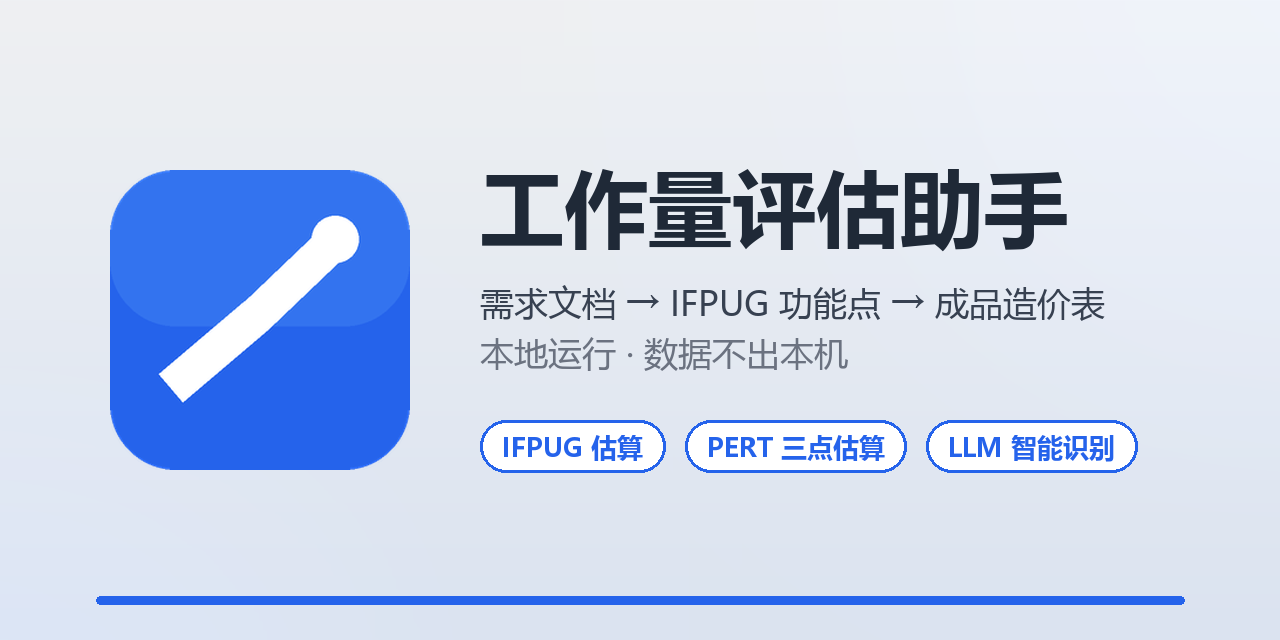
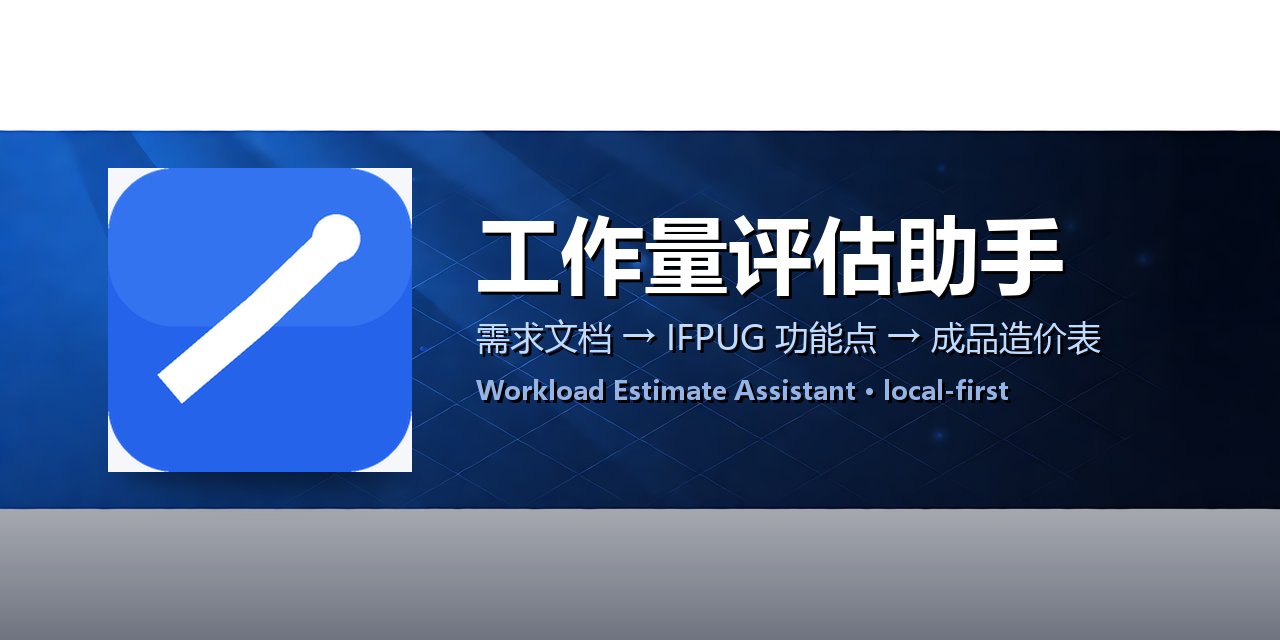
T01823+T01831 GitHub 门面：README 徽章/hero/测试段 + AI 背景社交预览图
- README：补 hero 预览图与静态徽章（平台/Python/Electron/测试/i18n）、
  特性补估算历史版本对比/多语言三主题/可访问性（均仓库真实事实）、新增测试段
- assets/github-social-preview.png：agnes-image-2.5-flash 生成深蓝科技背景（无文字），
  PIL 精确合成 1280×640 + we_icon 真实 logo + YaHei 文字（≤2 行），尺寸精确不变形

diff --git a/README.md b/README.md
@@ -2,6 +2,10 @@
 
 > 需求文档 → IFPUG 功能点 → 成品造价表（引擎直连）
 
+![social preview](assets/github-social-preview.png)
+
+![platform](https://img.shields.io/badge/platform-Windows%2010%2B-2563EB) ![python](https://img.shields.io/badge/python-3.10%2B-3776AB) ![electron](https://img.shields.io/badge/electron-desktop-47848F) ![tests](https://img.shields.io/badge/npm%20test-12%2F12%20passing-16A34A) ![i18n](https://img.shields.io/badge/i18n-%E4%B8%AD%20%2F%20EN-8B5CF6)
+
 本地运行的软件项目工作量评估工具：上传需求说明书，自动识别 IFPUG 功能点并生成符合企业造价模板的成品评估表；同时提供 PERT 三点估算双模式，支持大模型（LLM）辅助识别与拆分。全部计算在本地完成，需求文档不出本机。
 
 ## 特性
@@ -9,6 +13,9 @@
 - **IFPUG 估算**：上传 `.docx` 需求文档 → 本地引擎解析候选功能点 → 逐条审核（类别/复杂度/重用/修改）→ 一键生成《规模估算》《费用估算》成品 xlsx（公式与样式保真，Excel 打开即重算）
 - **PERT 三点估算**：新建/选择项目 → 需求导入（AI 拆分或人工录入）→ 乐观/最可能/悲观三值 → 预期 = (O + 4M + P) ÷ 6、σ = (P − O) ÷ 6 → 生成 PERT 成品表
 - **大模型识别增强**：配置中心可接入任意 OpenAI 兼容接口（OpenAI / Claude / 通义 / 火山 / Agnes / 自定义），支持连接测试、模型列表自动拉取；启用后对候选做复核补全，并可注入项目上下文目录扫描出的技术栈/规模信息
+- **估算历史与版本对比**：估算历史持久化、重开复用，两次估算可逐项 diff（新增/删除/变更高亮）
+- **多语言与主题**：界面中/英双语切换；浅色 / 深色 / 高对比三套主题，品牌主色可自定义
+- **可访问性**：全链路键盘可完成主流程，语义化 role/aria，焦点环与对比度按 WCAG 口径校验
 - **项目库持久化**：PERT 项目与估算项落库 SQLite，支持多项目管理
 - **桌面应用**：Electron 壳 + PyInstaller sidecar，安装即用；前端图标库本地内联，离线/内网环境正常渲染
 - **本地目录选择**：配置中心浏览目录走系统原生对话框，返回绝对路径自动填入
@@ -91,6 +98,14 @@ electron-builder 的中间产物（`win-unpacked\resources\app.asar`）输出到
 ├── scripts\清理发布目录.bat  # 清空 release（可随时执行，产物可重建）
 └── release/                 # 构建产物（zip、sidecar exe、安装包），可随时清理
 ```
+
+## 测试
+
+```bash
+npm test
+```
+
+编排器（`tests/run.mjs`）跑 S1–S12 共 12 个套件：Python 单测（规则对拍/引擎口径/CLI）+ API 冒烟（隔离实例全链路）+ UI 冒烟（无头 Chrome CDP，覆盖上传→识别→审核→生成→导出、进度/失败/超时、主题、键盘可达、动效空态、多语言）。全绿为交付线。
 
 ## 主要接口
 
